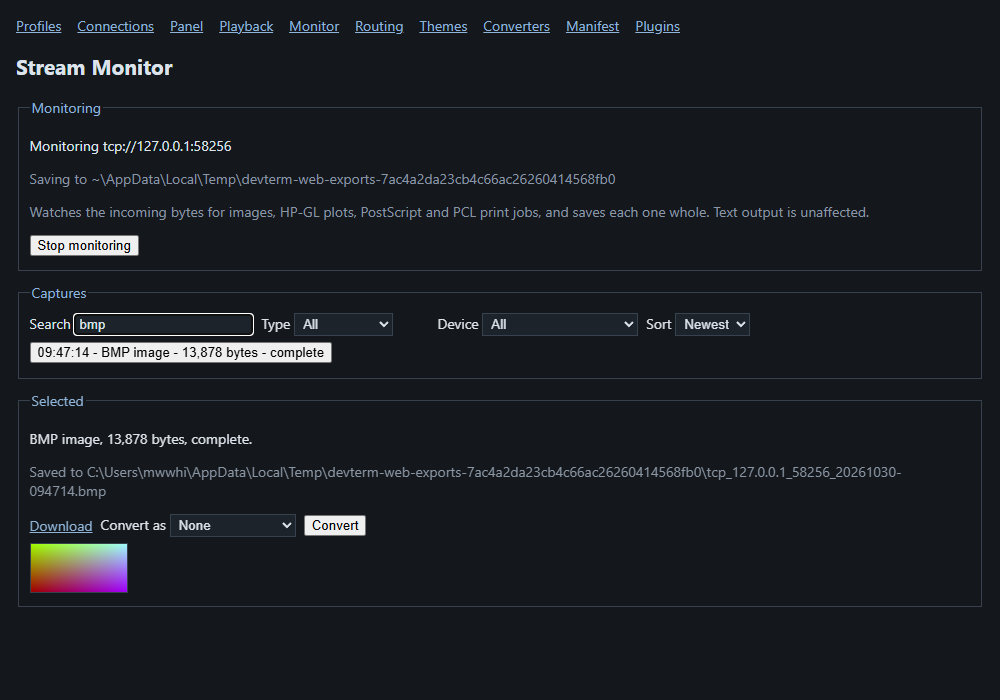
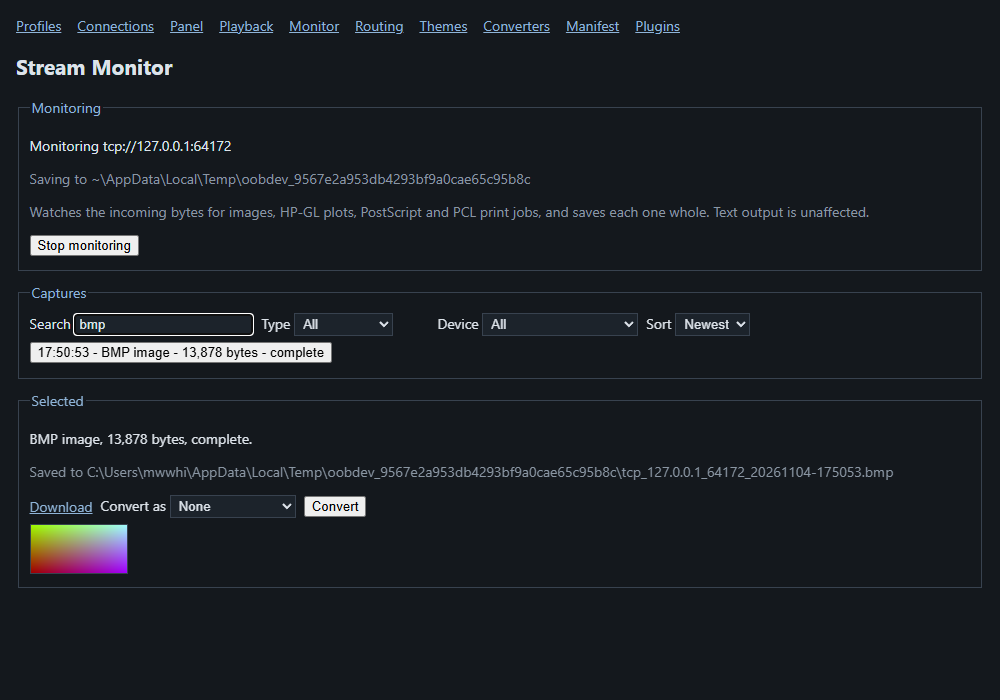
Save the Web monitor test captures in a TempDirectoryHandle and move the guide image mask zones to the shorter path

diff --git a/src/Applications/DevTerm/OoBDev.DevTerm.Web.Tests/WebScreenshotTests.cs b/src/Applications/DevTerm/OoBDev.DevTerm.Web.Tests/WebScreenshotTests.cs
@@ -1,3 +1,4 @@
+using OoBDev.System.IO;
 using OoBDev.System.IO.Devices;
 using Microsoft.VisualStudio.TestTools.UnitTesting;
 using System;
@@ -514,7 +515,8 @@ public class WebScreenshotTests
     [TestMethod]
     public async Task MonitorPage_ShowsACapturedImage_AndSavesIt()
     {
-        var exports = Path.Combine(Path.GetTempPath(), $"devterm-web-exports-{Guid.NewGuid():N}");
+        using var exportsDirectory = new TempDirectoryHandle();
+        var exports = exportsDirectory.DirectoryPath;
         var bitmap = SampleBitmap();
         using var device = new TcpListener(IPAddress.Loopback, 0);
         device.Start();

diff --git a/BACKLOG.md b/BACKLOG.md
@@ -27,7 +27,7 @@ Owner: all protocols and features of dev-term must exist here. Done means what d
 - [ ] Saint George score machine: priority is read from the `P` byte itself, so it is never set (ported as-is); settle the real byte from a captured frame, and add a Hardware test for Favero and Saint George when a machine is available.
 
 ## 3. Test infrastructure
-- [x] Move the remaining test/tool files that build temp folders by hand (`Path.GetTempPath()`, mostly `OoBDev.DevTerm.*.Tests` and `GuideImage`; `WebHostTests`, `WebLayoutReviewTests`, `ConnectionManagerStoreTests` and `WebManifestEditorTests` and `WebRolesTests` are done, `WebScreenshotTests` and `WebUserFlowTests` are next; the `web-blazor-monitor.png` guide image changes between full Web.Tests runs, so its mask zones need a look) onto `ITempFileFactory.GetTempDirectory()` (coding-standards rule); do a project at a time.
+- [x] Move the remaining test/tool files that build temp folders by hand (`Path.GetTempPath()`, mostly `OoBDev.DevTerm.*.Tests` and `GuideImage`; `WebHostTests`, `WebLayoutReviewTests`, `ConnectionManagerStoreTests` and `WebManifestEditorTests`, `WebRolesTests` and the monitor page test in `WebScreenshotTests` are done, the rest of `WebScreenshotTests` and `WebUserFlowTests` are next) onto `ITempFileFactory.GetTempDirectory()` (coding-standards rule); do a project at a time.
 
 - [ ] Integration coverage gaps: Azure runs on emulators only (Azurite, Service Bus emulator, no Azure licence); Moto is used only for SQS, so S3 tests wait for an S3 adapter.
 - [ ] Integration suite under 5 minutes (now 7 min 54 s; the no-flaky-tests goal is met): [suite-timing.md](docs/architecture/testing/integration/suite-timing.md).

diff --git a/docs/changes/temp-directory-factory-2026-11-04.md b/docs/changes/temp-directory-factory-2026-11-04.md
@@ -6,4 +6,4 @@
 
 Tests: `TempDirectoryHandleTests` (nested delete, double dispose, held-open file, distinct directories from the factory); `OoBDev.System.Tests` temp tests 6 of 6 pass.
 
-Callers moved so far: the project files in `OoBDev.DevTerm.Web.Tests` (`WebHostTests`, `WebLayoutReviewTests`) use `TempFileHandle`, and the folders in `ConnectionManagerStoreTests` and `WebManifestEditorTests` use `TempDirectoryHandle` (6 of 6 pass), and the certificate files in `WebRolesTests` use `TempFileHandle` (2 of 2 pass); the Web.Tests suite ran 105 passed, 0 failed, 1 skipped before the 5-minute run timeout aborted the run (about 4 m 48 s). The remaining callers are tracked in `BACKLOG.md`, section Test infrastructure.
+Callers moved so far: the project files in `OoBDev.DevTerm.Web.Tests` (`WebHostTests`, `WebLayoutReviewTests`) use `TempFileHandle`, and the folders in `ConnectionManagerStoreTests` and `WebManifestEditorTests` use `TempDirectoryHandle` (6 of 6 pass), and the certificate files in `WebRolesTests` use `TempFileHandle` (2 of 2 pass); the monitor page test in `WebScreenshotTests` saves its captures in a `TempDirectoryHandle`, whose shorter fixed-length path no longer wraps in `web-blazor-monitor.png`, so the mask zones for the saving and saved paths in `zones.json` were moved to the new layout and the image is now identical across reruns; the Web.Tests suite ran 105 passed, 0 failed, 1 skipped before the 5-minute run timeout aborted the run (about 4 m 48 s). The remaining callers are tracked in `BACKLOG.md`, section Test infrastructure.
